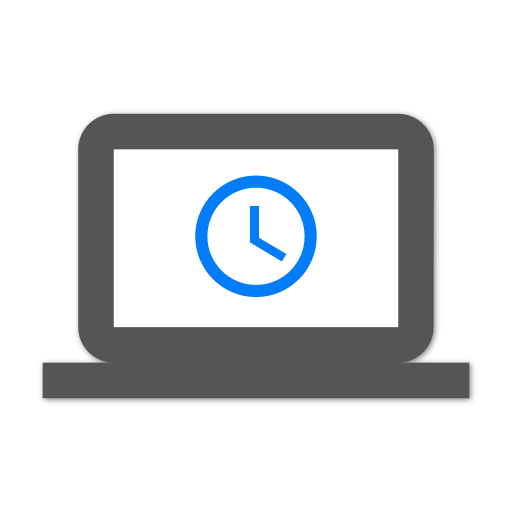
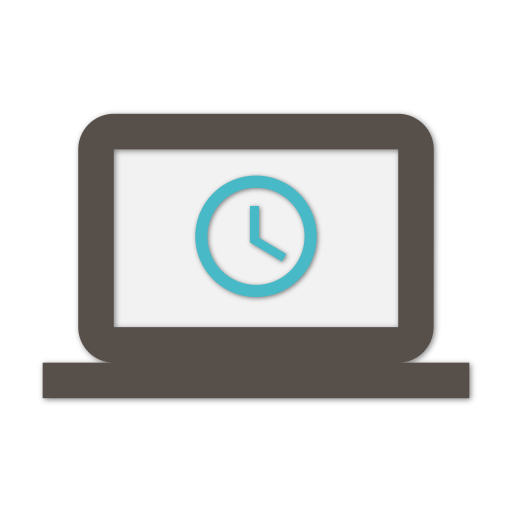
Update color palette based on Pop OS colors

Changed region(s): [[0.2188, 0.2812, 0.7812, 0.6562]]

diff --git a/screen_time/week.py b/screen_time/week.py
@@ -7,6 +7,7 @@ from gi.repository import Gtk
 from .usage import WeekUsage, format_time
 import matplotlib.pyplot as plt
 from matplotlib.backends.backend_gtk3cairo import FigureCanvasGTK3Cairo as FigureCanvas
+from .gtk import *
 
 
 class Week(Gtk.Box):
@@ -14,22 +15,13 @@ class Week(Gtk.Box):
     def __init__(self, parent):
         Gtk.Box.__init__(self, orientation=Gtk.Orientation.VERTICAL, spacing=6)
 
-        self.set_margin_top(24)
-        self.set_margin_bottom(12)
-        self.set_margin_left(12)
-        self.set_margin_right(12)
+        set_default_margins(self)
 
-        self.bar_color = '#027cf7'
+        self.bar_color = PRIMARY_COLOR
 
         self.parent = parent
 
-        week_label = Gtk.Label("Last 7 Day's Screen Time")
-        week_label.set_line_wrap(True)
-        week_label.set_halign(Gtk.Align.START)
-        week_label.set_justify(Gtk.Justification.FILL)
-        week_label.set_hexpand(True)
-        Gtk.StyleContext.add_class(week_label.get_style_context(), "h1")
-
+        week_label = create_title("Last 7 Day's Screen Time")
         self.add(week_label)
 
         usage = WeekUsage()
@@ -37,31 +29,13 @@ class Week(Gtk.Box):
         total_time = sum([d.total_time for d in usage.days])
         total_unlocks = sum([d.unlocks for d in usage.days])
 
-        time_label = Gtk.Label("Total time: {}".format(format_time(total_time)))
-        time_label.set_line_wrap(True)
-        time_label.set_halign(Gtk.Align.START)
-        time_label.set_justify(Gtk.Justification.FILL)
-        time_label.set_hexpand(True)
-        Gtk.StyleContext.add_class(time_label.get_style_context(), "h2")
-
+        time_label = create_usage_detail("Total time", format_time(total_time))
         self.add(time_label)
 
-        average_label = Gtk.Label("Daily average: {}".format(format_time(total_time / 7)))
-        average_label.set_line_wrap(True)
-        average_label.set_halign(Gtk.Align.START)
-        average_label.set_justify(Gtk.Justification.FILL)
-        average_label.set_hexpand(True)
-        Gtk.StyleContext.add_class(average_label.get_style_context(), "h2")
-
+        average_label = create_usage_detail("Daily average", format_time(total_time / 7))
         self.add(average_label)
 
-        unlocks_label = Gtk.Label("Unlocks: {}".format(total_unlocks))
-        unlocks_label.set_line_wrap(True)
-        unlocks_label.set_halign(Gtk.Align.START)
-        unlocks_label.set_justify(Gtk.Justification.FILL)
-        unlocks_label.set_hexpand(True)
-        Gtk.StyleContext.add_class(unlocks_label.get_style_context(), "h2")
-
+        unlocks_label = create_usage_detail("Unlocks", total_unlocks)
         self.add(unlocks_label)
 
         fig, ax = plt.subplots()
@@ -79,12 +53,12 @@ class Week(Gtk.Box):
 
         ax.get_yaxis().set_visible(False)
         ax.get_xaxis().set_visible(True)
-        ax.tick_params(axis='x', colors='#555555')
-        ax.set_facecolor("#f5f5f5")
-        fig.set_facecolor('#f5f5f5')
+        ax.tick_params(axis='x', colors=LABEL_COLOR)
+        ax.set_facecolor(BACKGROUND_COLOR)
+        fig.set_facecolor(BACKGROUND_COLOR)
         plt.subplots_adjust(left=0.02, right=0.98)
 
-        plt.axhline(total_time / (7 * 60), color='#555555', linestyle='dashed', linewidth=1)
+        plt.axhline(total_time / (7 * 60), color=LABEL_COLOR, linestyle='dashed', linewidth=1)
 
         plt.plot()
 
@@ -118,4 +92,4 @@ def add_labels(ax, rects, xpos='center'):
     for rect in rects:
         height = rect.get_height()
         ax.text(rect.get_x() + rect.get_width() * offset[xpos], 1.01 * height,
-                format_time(height * 60), ha=ha[xpos], va='bottom', color="#555555")
+                format_time(height * 60), ha=ha[xpos], va='bottom', color=LABEL_COLOR)

diff --git a/screen_time/today.py b/screen_time/today.py
@@ -8,6 +8,7 @@ import matplotlib.pyplot as plt
 from matplotlib.backends.backend_gtk3cairo import FigureCanvasGTK3Cairo as FigureCanvas
 from .usage import TodayUsage, format_time
 import numpy as np
+from .gtk import *
 
 
 class Today(Gtk.Box):
@@ -15,41 +16,28 @@ class Today(Gtk.Box):
     def __init__(self, parent):
         Gtk.Box.__init__(self, orientation=Gtk.Orientation.VERTICAL, spacing=6)
 
-        self.set_margin_top(24)
-        self.set_margin_bottom(12)
-        self.set_margin_left(12)
-        self.set_margin_right(12)
-        self.background_color = '#eeeeee'
-        self.bar_color = '#027cf7'
+        set_default_margins(self)
+        self.background_color = INACTIVE_COLOR
+        self.bar_color = PRIMARY_COLOR
 
         self.parent = parent
 
-        today_label = Gtk.Label("Today's Screen Time")
-        today_label.set_line_wrap(True)
-        today_label.set_halign(Gtk.Align.START)
-        today_label.set_justify(Gtk.Justification.FILL)
-        today_label.set_hexpand(True)
-        Gtk.StyleContext.add_class(today_label.get_style_context(), "h1")
+        today_label = create_title("Today's Screen Time")
 
         self.add(today_label)
 
         usage = TodayUsage()
 
-        time_label = Gtk.Label("Total time: {}".format(format_time(usage.get_total_time())))
-        time_label.set_line_wrap(True)
-        time_label.set_halign(Gtk.Align.START)
-        time_label.set_justify(Gtk.Justification.FILL)
-        time_label.set_hexpand(True)
-        Gtk.StyleContext.add_class(time_label.get_style_context(), "h2")
+        time_label = create_usage_detail("Total time", format_time(usage.get_total_time()))
 
         self.add(time_label)
 
-        unlocks_label = Gtk.Label("Unlocks: {}".format(usage.get_unlocks()))
-        unlocks_label.set_line_wrap(True)
-        unlocks_label.set_halign(Gtk.Align.START)
-        unlocks_label.set_justify(Gtk.Justification.FILL)
-        unlocks_label.set_hexpand(True)
-        Gtk.StyleContext.add_class(unlocks_label.get_style_context(), "h2")
+        longest_session_label = create_usage_detail("Longest session",
+                                                    format_time(max([d.get_length() for d in usage.sessions])))
+
+        self.add(longest_session_label)
+
+        unlocks_label = create_usage_detail("Unlocks", usage.get_unlocks())
 
         self.add(unlocks_label)
 
@@ -83,10 +71,10 @@ class Today(Gtk.Box):
 
         ax.get_yaxis().set_visible(False)
         ax.get_xaxis().set_visible(True)
-        ax.tick_params(axis='x', colors='#555555')
-        plt.xticks(range(0, 24*60, 60 * 6), ["12A", "6A", "12P", "6P"])
-        ax.set_facecolor("#f5f5f5")
-        fig.set_facecolor('#f5f5f5')
+        ax.tick_params(axis='x', colors=LABEL_COLOR)
+        plt.xticks(range(0, 24 * 60, 60 * 6), ["12A", "6A", "12P", "6P"])
+        ax.set_facecolor(BACKGROUND_COLOR)
+        fig.set_facecolor(BACKGROUND_COLOR)
         plt.subplots_adjust(left=0.02, right=0.98)
 
         plt.plot()
@@ -108,9 +96,9 @@ def get_chart_times(durations):
 
             # Append break
             if i != len(durations) - 1:
-                d.append(durations[i+1].start() - durations[i].end())
+                d.append(durations[i + 1].start() - durations[i].end())
 
-        d.append(60*24 - durations[-1].end())
+        d.append(60 * 24 - durations[-1].end())
         return d
 
     return [60 * 24]

diff --git a/screen_time/gtk.py b/screen_time/gtk.py
@@ -1,0 +1,38 @@
+#!/usr/bin/python3
+
+import gi
+
+gi.require_version('Gtk', '3.0')
+from gi.repository import Gtk
+
+
+PRIMARY_COLOR = "#48b9c7"
+INACTIVE_COLOR = "#E6E6E6"
+LABEL_COLOR = "#574f4a"
+BACKGROUND_COLOR = "#f5f5f5"
+
+
+def create_title(title):
+    label = Gtk.Label(title)
+    label.set_line_wrap(True)
+    label.set_halign(Gtk.Align.START)
+    label.set_justify(Gtk.Justification.FILL)
+    label.set_hexpand(True)
+    Gtk.StyleContext.add_class(label.get_style_context(), "h1")
+    return label
+
+def create_usage_detail(title, content):
+    label = Gtk.Label("{}: {}".format(title, content))
+    label.set_line_wrap(True)
+    label.set_halign(Gtk.Align.START)
+    label.set_justify(Gtk.Justification.FILL)
+    label.set_hexpand(True)
+    Gtk.StyleContext.add_class(label.get_style_context(), "h2")
+    return label
+
+
+def set_default_margins(box):
+    box.set_margin_top(24)
+    box.set_margin_bottom(12)
+    box.set_margin_left(12)
+    box.set_margin_right(12)
